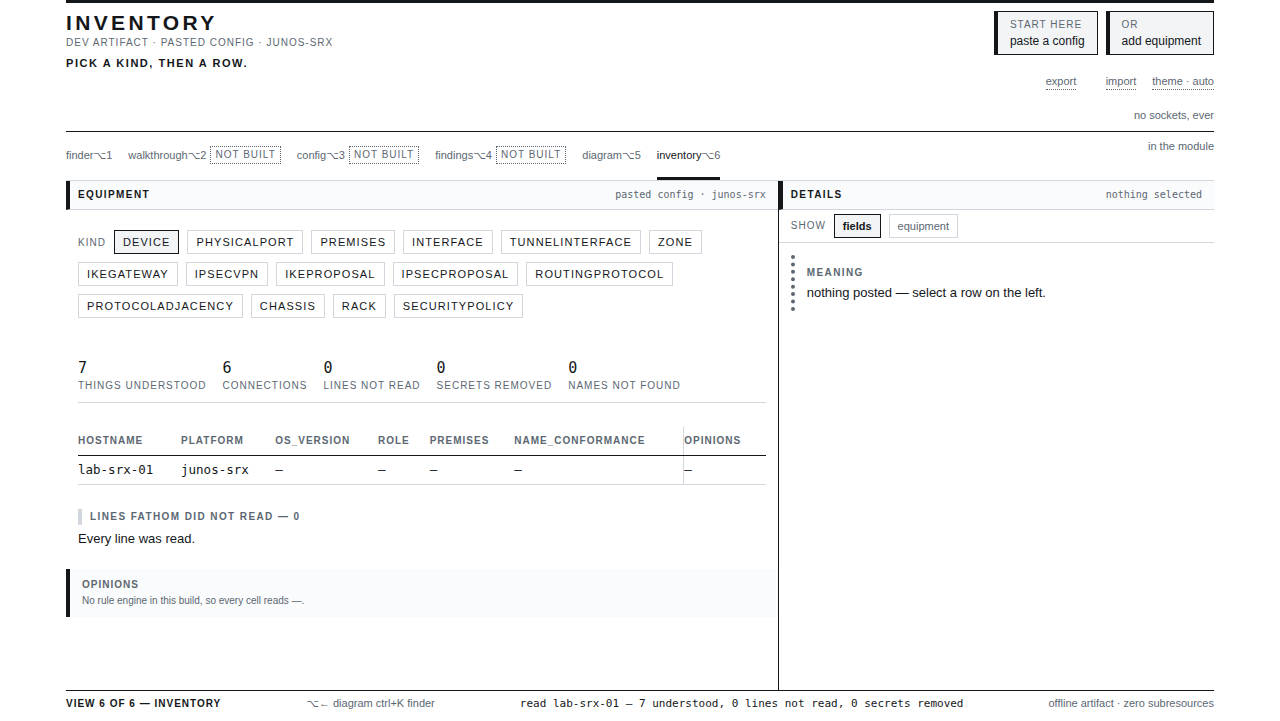
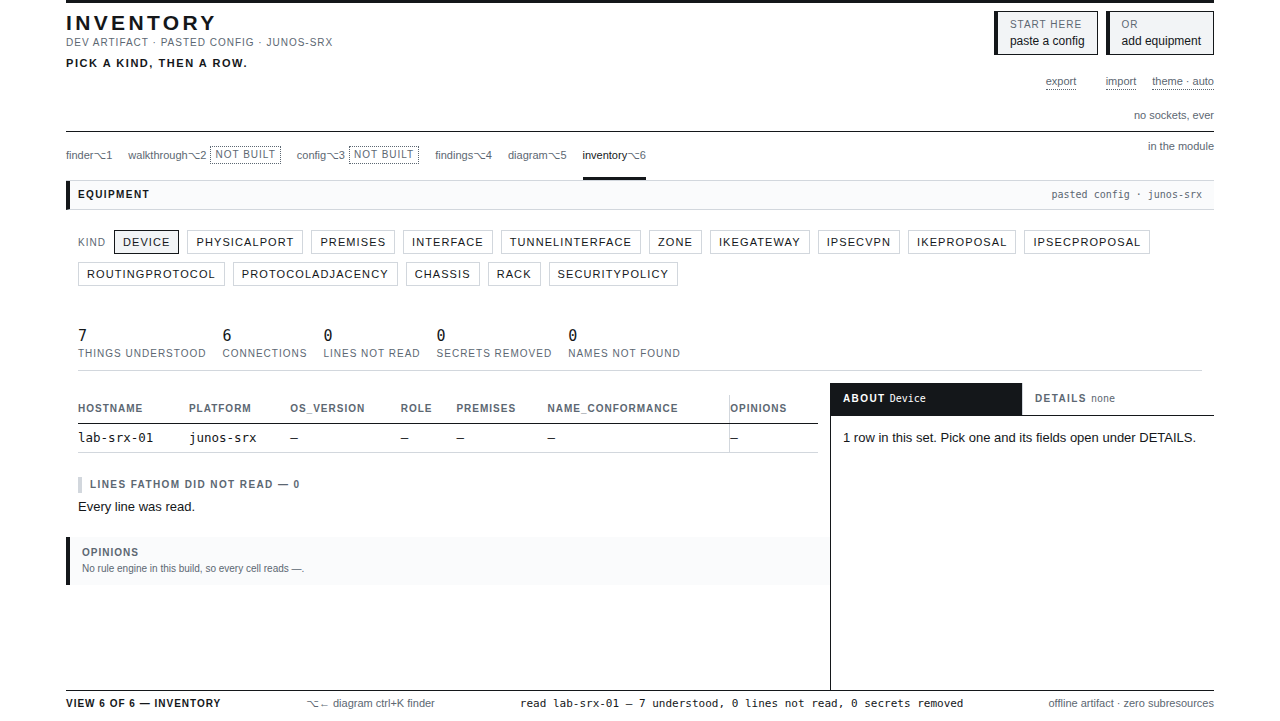
Four features in parallel, merged — and the ceiling comes off
Four agents built in their own worktrees and four independent reviewers
re-ran everything from scratch. All four verdicts were merge or
merge-with-fixes; the fixes are applied here.

WHAT LANDED:

  THE INVENTORY GETS DIRECTION A, which it never got. The owner found this
  himself: "when you are looking at equipment and click on it, you have like
  3 pages opened, it was too much and you couldn't see anything". He was
  right, and the fix had landed on the diagram ONLY — one CSS rule naming one
  view. The two views now share one selector rather than resembling each
  other, which is what asserts they share the idiom. 42-check driver.

  THE FINDINGS VIEW GETS ITS FIRST JOB — what the estate does not know yet.
  No new kind, no opcode, no rules engine, no owner decision. And it does not
  overclaim: `.context/conventions.md` reserves "finding" for a rule firing
  against a node and this build has no rule engine, so the wire format calls
  them GAPS and the view says so. It also distinguishes "zero because
  everything is complete" from "zero because nothing creates these yet" —
  Cable and PhysicalPort being the second, and a list that silently reported
  nothing for them would tell an operator his cabling was finished.

  RACK VIEW STOPS BEING A DOOR. The category error the owner spotted: two of
  those band buttons are how data gets IN, the third was a way of LOOKING.
  Selecting a rack is now how you get an elevation — the first rung of `57`
[…]

diff --git a/crates/fathom-artifact/tests/artifact.rs b/crates/fathom-artifact/tests/artifact.rs
@@ -244,10 +244,9 @@ fn the_importer_still_reads_the_version_before_the_envelope() {
 fn the_pages_face_codes_match_the_modules() {
     let page = std::fs::read_to_string(workspace_root().join(SHELL_SOURCE))
         .expect("the shell source is checked in");
-    let proto = std::fs::read_to_string(
-        workspace_root().join("crates/fathom-wasm/src/protocol.rs"),
-    )
-    .expect("the protocol source is checked in");
+    let proto =
+        std::fs::read_to_string(workspace_root().join("crates/fathom-wasm/src/protocol.rs"))
+            .expect("the protocol source is checked in");
 
     let mut checked = 0usize;
     for line in proto.lines() {

diff --git a/crates/fathom-inventory/src/gaps.rs b/crates/fathom-inventory/src/gaps.rs
@@ -420,8 +420,12 @@ mod tests {
 
         g.begin_batch(BatchId(ulid(800)), "gaps test")
             .expect("a fresh batch");
-        g.tombstone(ElementId::Node(fourth), Timestamp(TS0 + 1))
-            .expect("a device can be removed");
+        g.tombstone(
+            ElementId::Node(fourth),
+            Timestamp(TS0 + 1),
+            fathom_graph::Actor::User(fathom_graph::UserId::LOCAL),
+        )
+        .expect("a device can be removed");
         g.end_batch().expect("the batch closes");
         assert_eq!(
             gap_for(&findings(&g), "Device", "platform"),
